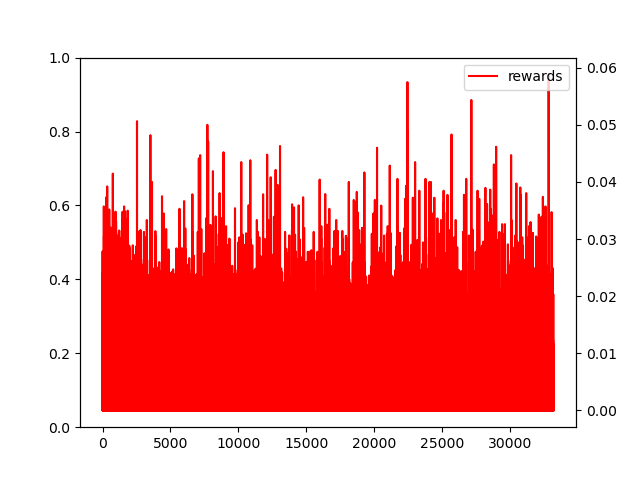
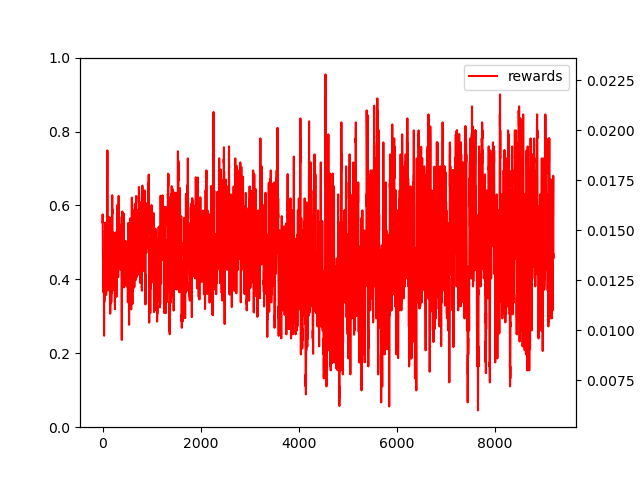
trainble, rewards is rising slowly

diff --git a/deeprl_hw2/dqn.py b/deeprl_hw2/dqn.py
@@ -68,9 +68,9 @@ class DQNAgent:
         rewards = []  # record rewards for plot
 
         self.memory.clear()
-        q1 = copy.deepcopy(self.q_network).cuda()
-        q2 = copy.deepcopy(self.q_network).cuda()
-        optimizer = torch.optim.RMSprop(q2.parameters(), lr=1e-4)  # todo: double DQN, lr TUNING
+        q1 = copy.deepcopy(self.q_network).cuda()  # For DQN， q1 is the online network
+        q2 = copy.deepcopy(self.q_network).cuda()  # For DQN, q2 is the target network
+        optimizer = torch.optim.RMSprop(q1.parameters(), lr=1e-4)  # todo: double DQN, lr TUNING
         # --------------------------------------------------------------------------------------
 
         for iteration in tqdm.tqdm(range(num_iterations)):
@@ -86,13 +86,14 @@ class DQNAgent:
                     self.memory.end_episode(new_state, done)
                     rewards.append(np.mean(reward_per_episode))
                     break
+                state = new_state
 
             if (len(self.memory) > self.num_burn_in) and (iteration % self.train_freq == 0):
 
                 train_samples = self.memory.sample(batch_size=self.batch_size)
                 q1, q2 = self.train(q1, q2, train_samples, optimizer)
 
-            if iteration % 50 == 0:
+            if iteration % 100 == 0:
                 plot_and_print(rewards, smooth_length=10)
 
     def train(self, q1, q2, train_samples, optimizer):
@@ -124,7 +125,7 @@ class DQNAgent:
 
         # DQN: update the target network(q2) per target_update_freq steps
         if self.train_num % self.target_update_freq == 0:
-            q2 = q1
+            q2 = copy.deepcopy(q1).cuda()
         self.train_num += 1
 
         q1.eval()

diff --git a/deeprl_hw2/wrappers.py b/deeprl_hw2/wrappers.py
@@ -1,7 +1,10 @@
 """
 Adapted from OpenAI Baselines
 https://github.com/openai/baselines/blob/master/baselines/common/atari_wrappers.py
+
+Wrappers are used to wrap frames into 84 * 84 and stack 4 frames together.
 """
+
 import numpy as np
 from collections import deque
 import gym
@@ -174,7 +177,7 @@ def wrap_deepmind(env, episode_life=True, clip_rewards=True, frame_stack=False, 
     """Configure environment for DeepMind-style Atari.
     """
     if episode_life:
-        env = EpisodicLifeEnv(env)  # todo: what's EpisodicLifeEnv
+        env = EpisodicLifeEnv(env)
     if 'FIRE' in env.unwrapped.get_action_meanings():
         env = FireResetEnv(env)
     env = WarpFrame(env)
@@ -188,8 +191,9 @@ def wrap_deepmind(env, episode_life=True, clip_rewards=True, frame_stack=False, 
 
 
 if __name__ == "__main__":
+    # test wrappers
     env = gym.make('SpaceInvaders-v0')
-    # env = wrap_deepmind(env, episode_life=False, clip_rewards=False, frame_stack=False, scale=False)
+    env = wrap_deepmind(env, episode_life=True, clip_rewards=True, frame_stack=True, scale=True)
     env.reset()
     print(env.action_space)
     print(env.observation_space)
@@ -198,9 +202,7 @@ if __name__ == "__main__":
         action = env.action_space.sample()
         obs, reward, done, info = env.step(action)  # take a random action
         env.render()
-        # print(action, obs.shape, reward, done, info)
-        if abs(reward) > 0.0:
-            print(reward)
+        print(action, obs.shape, reward, done, info)
         if done:
             env.reset()
     env.close()

diff --git a/dqn_atari.py b/dqn_atari.py
@@ -38,10 +38,10 @@ def main():  # noqa: D103
     env = wrap_deepmind(env, episode_life=False, clip_rewards=True, frame_stack=True, scale=False)
     model = Model(in_channels=4, n_actions=n_actions)
     memory = ReplayMemory(max_size=args.memory_size)
-    policy = LinearDecayGreedyEpsilonPolicy(n_actions=n_actions, start_value=1, end_value=0.1, num_steps=500000)
+    policy = LinearDecayGreedyEpsilonPolicy(n_actions=n_actions, start_value=1, end_value=0.05, num_steps=2000000)
     agent = DQNAgent(q_network=model, memory=memory, gamma=0.99, target_update_freq=100,
-                     num_burn_in=50000, batch_size=64, policy=policy, train_freq=1)
-    agent.fit(env, num_iterations=5000000, max_episode_length=500)
+                     num_burn_in=100000, batch_size=64, policy=policy, train_freq=1)
+    agent.fit(env, num_iterations=100000, max_episode_length=500)
 
 
 if __name__ == '__main__':
